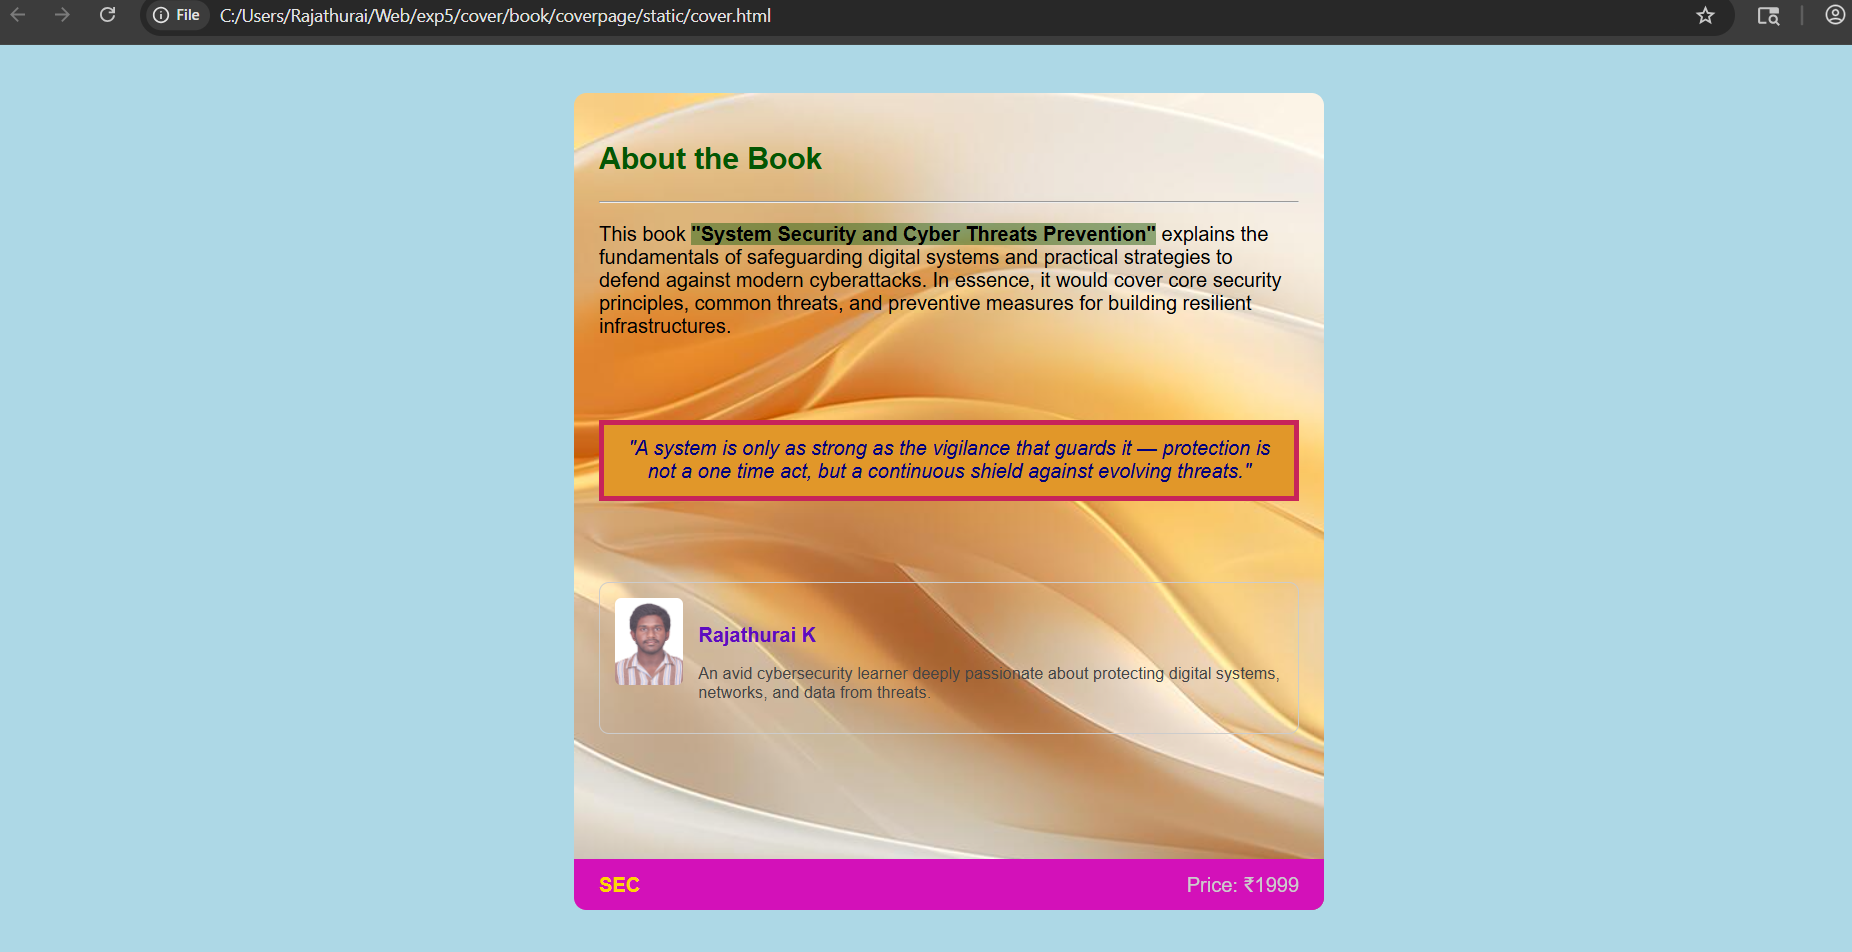
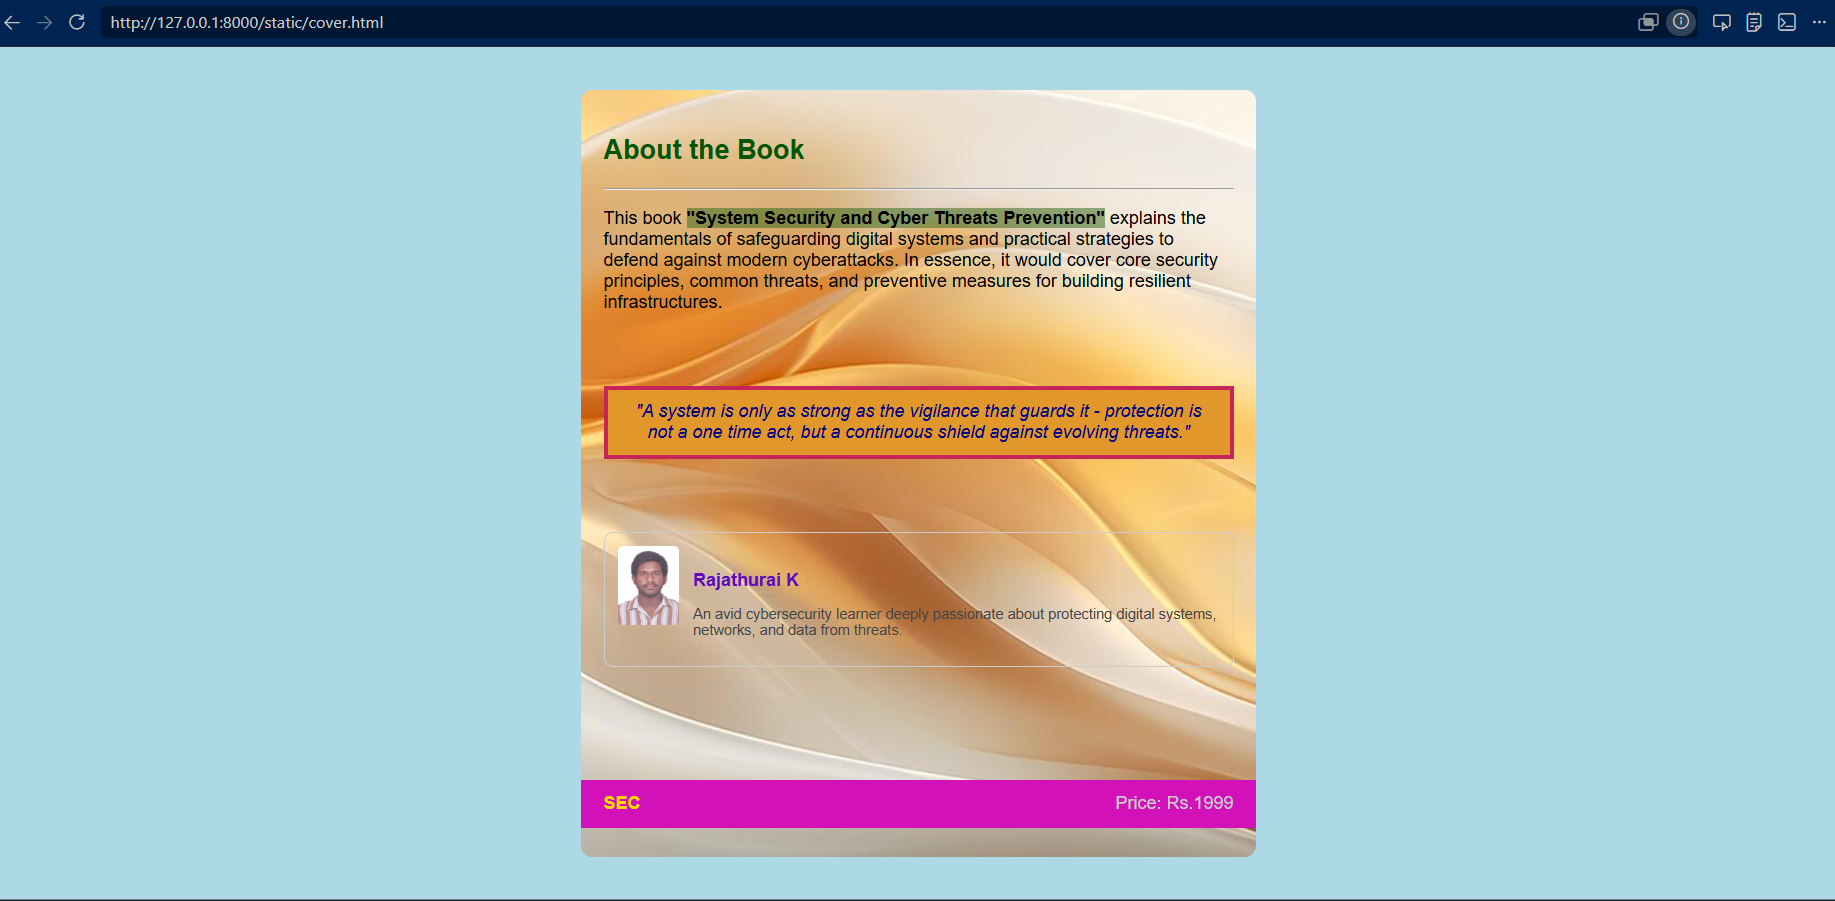
Success!!

diff --git a/book/coverpage/static/cover.html b/book/coverpage/static/cover.html
@@ -82,7 +82,7 @@
       </p>
  
       <div class="quote">
-        "A system is only as strong as the vigilance that guards it — protection is not a one time act, but a continuous shield against evolving threats."
+        "A system is only as strong as the vigilance that guards it - protection is not a one time act, but a continuous shield against evolving threats."
       </div>
  
       <div class="author">
@@ -98,7 +98,7 @@
       <div>
         <div class="pub">SEC</div>
       </div>
-      <div class="sub">Price: ₹1999</div>
+      <div class="sub">Price: Rs.1999</div>
     </div>
   </div>
  

diff --git a/README.md b/README.md
@@ -146,6 +146,3 @@ Publish the website in the LocalHost.
 
 ## RESULT:
 The program for designing book front cover page using HTML and CSS is completed successfully.
-
-
-[def]: image.png
